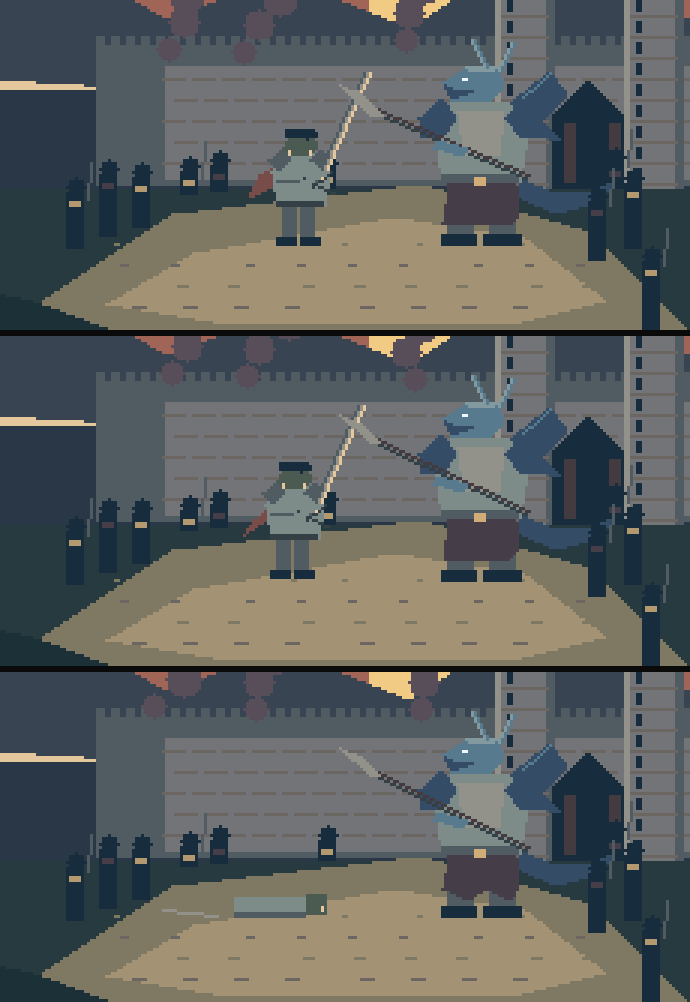
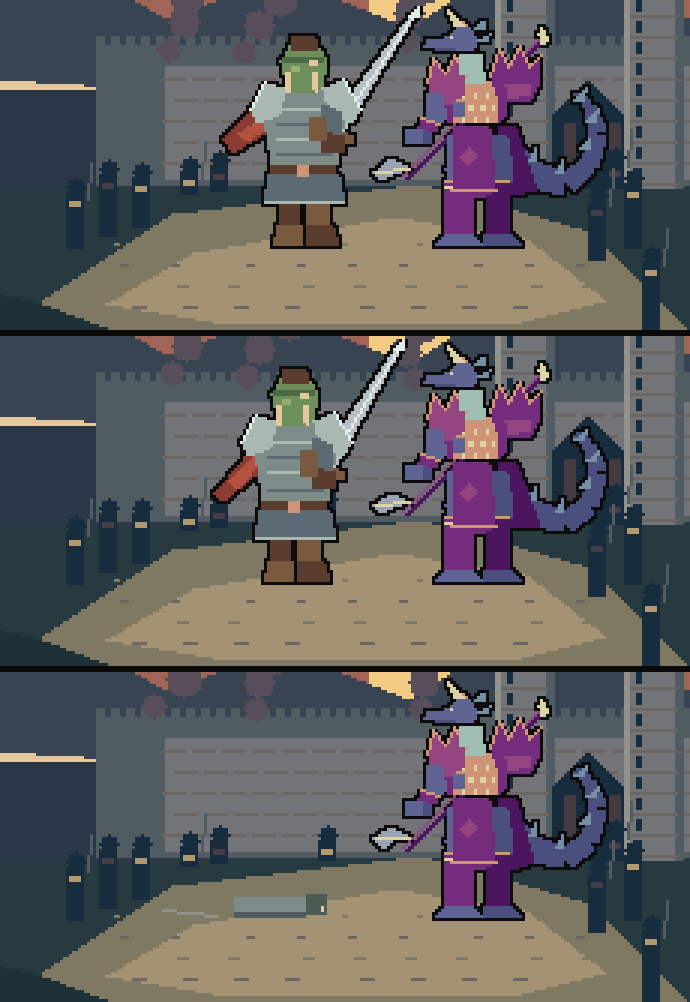
feat(dd5): sprite lab and redrawn Langdedrosa and Drek'Thar
Silhouette-first characters with selective outlines, purple/gold/blue palette for
Langdedrosa after the player's reference, and a lab tool to review colour, value and
silhouette views before wiring sprites into scenes.

Claude-Session: https://claude.ai/code/session_01THDc5EBxX1nxbvR3Z5k4fJ

diff --git a/index.html b/index.html
@@ -11279,7 +11279,7 @@
     function drawDuelActors(g, direction, progress, reversed = false) {
       const t = uiState.reducedMotion ? 0 : gameState.tick, finished = direction?.kind === 'duel' && progress > .55;
       const fallen = finished ? direction.fallen : null, dueling = direction?.kind === 'duel' && !finished;
-      const heroScale = reversed ? 1.12 : 1, foeScale = reversed ? .88 : 1.06;
+      const heroScale = reversed ? 1.12 : 1, foeScale = reversed ? .62 : .78;
       const heroX = reversed ? 207 : 182, foeX = reversed ? 258 : 250, baseY = reversed ? 174 : 172;
       const heroStrike = dueling ? strikeAt(progress, [.1, .28, .46]) : 0, foeStrike = dueling ? strikeAt(progress, [.19, .37]) : 0;
       if (['active','injured'].includes(characters.drekthar.state) || direction?.actor === 'drekthar') {
@@ -11486,67 +11486,130 @@
       pixelLine(g, ox + Math.round(x1 * scale) * (flip ? -1 : 1), oy + Math.round(y1 * scale), ox + Math.round(x2 * scale) * (flip ? -1 : 1), oy + Math.round(y2 * scale), color);
     }
 
-    // Langdedrosa Cyanwrath, demi-dragon bleu : colosse, cornes, étincelle de foudre à la corne. Regarde vers la gauche.
+    // Palette de Langdedrosa : violet, or et bleu d'écailles, avec un contour noir sélectif sur la silhouette extérieure.
+    const LD = { k: '#0c0c0c', p0: '#2e0c40', p1: '#4c155f', p2: '#762c7c', p3: '#92457f', p4: '#bf6784', b1: '#4b4f7e', b2: '#606493', b3: '#7590a4',
+      g1: '#cf9478', g2: '#dbd3a2', t: '#9ebeb2', steel: '#9aa3b4' };
+
+    // Ruban d'épaisseur variable le long d'une courbe (queue) : renvoie une liste de polygones.
+    function ribbonShapes(points, widths, color) {
+      const shapes = [];
+      for (let i = 0; i < points.length - 1; i++) {
+        const [ax, ay] = points[i], [bx, by] = points[i + 1], dx = bx - ax, dy = by - ay, len = Math.hypot(dx, dy) || 1, nx = -dy / len, ny = dx / len;
+        shapes.push({ pts: [[ax + nx * widths[i], ay + ny * widths[i]], [bx + nx * widths[i + 1], by + ny * widths[i + 1]], [bx - nx * widths[i + 1], by - ny * widths[i + 1]], [ax - nx * widths[i], ay - ny * widths[i]]], color });
+      }
+      return shapes;
+    }
+
+    // Dessine une liste de formes : d'abord le contour (silhouette extérieure), puis les aplats par-dessus.
+    // « lift » allonge les jambes : tout point au-dessus des pieds monte de lift pixels, les jambières s'étirent.
+    function drawShapeSet(g, ox, oy, scale, rawShapes, outline = LD.k, lift = 0) {
+      const raise = py => py < -6 ? py - lift : py;
+      const shapes = !lift ? rawShapes : rawShapes.map(shape => shape.pts ? { ...shape, pts: shape.pts.map(([px, py]) => [px, raise(py)]) }
+        : { ...shape, line: [shape.line[0], raise(shape.line[1]), shape.line[2], raise(shape.line[3])] });
+      const offsets = [[-1, 0], [1, 0], [0, -1], [0, 1], [-1, -1], [1, 1], [-1, 1], [1, -1]];
+      shapes.forEach(shape => { if (shape.pts && !shape.noOutline) offsets.forEach(([dx, dy]) => polyAt(g, ox + dx, oy + dy, scale, false, shape.pts, outline)); });
+      shapes.forEach(shape => {
+        if (shape.pts) polyAt(g, ox, oy, scale, false, shape.pts, shape.color);
+        else if (shape.line) lineAt(g, ox, oy, scale, false, ...shape.line, shape.color);
+      });
+    }
+
+    // Langdedrosa Cyanwrath, demi-dragon bleu. Regarde vers la gauche. Origine : centre des pieds.
     function drawLangdedrosa(g, x, y, t, strike = 0, scale = 1) {
-      const breath = [0, 0, -1, -1][Math.floor(t / 22) % 4], glaive = [0, -2, -3, -2, 0, 1][Math.floor(t / 38) % 6], cape = Math.floor(t / 15) % 3;
-      const lunge = -Math.round(strike * 12 * scale), by = y + Math.round(breath * scale);
-      const p = (pts, color, ox = x + lunge, oy = by) => polyAt(g, ox, oy, scale, false, pts, color);
-      const l = (x1, y1, x2, y2, color) => lineAt(g, x + lunge, by, scale, false, x1, y1, x2, y2, color);
-      // queue et ailes repliées, derrière le corps
-      p([[10, -16], [24, -10], [38, -14], [42, -22], [36, -18], [24, -17], [12, -22]], ART.blueDark);
-      p([[8, -44], [22, -56], [27, -48], [20, -40], [26, -33], [12, -36]], ART.blueDark); l(10, -44, 22, -55, ART.blue);
-      // jambes et bottes
-      p([[-10, 0], [-10, -20], [-2, -20], [-2, 0]], ART.stoneDark); p([[-12, 0], [-12, -4], [-1, -4], [-1, 0]], ART.shadow);
-      p([[3, 0], [3, -20], [11, -20], [11, 0]], ART.stoneDark); p([[1, 0], [1, -4], [13, -4], [13, 0]], ART.shadow);
-      // tabard d'étoffe qui bat doucement
-      p([[-10, -20], [-12, -9 + cape], [-4, -6 - cape], [2, -9 + cape], [9, -6 - cape], [12, -10], [11, -20]], ART.roofDark);
-      // torse cuirassé, ceinture, épaulières
-      p([[-12, -20], [-15, -36], [-9, -45], [9, -45], [15, -36], [12, -20]], ART.armor);
-      p([[-12, -20], [12, -20], [12, -23], [-12, -23]], ART.stoneDark); paint(g, ART.accent, x + lunge - 2, by - Math.round(22 * scale), 4, 3);
-      p([[-8, -42], [8, -42], [6, -28], [-6, -28]], ART.stoneLight);
-      p([[-20, -41], [-12, -47], [-8, -41], [-12, -34], [-19, -35]], ART.blueDark); p([[8, -41], [12, -47], [20, -41], [19, -35], [12, -34]], ART.blueDark);
-      // tête de dragon, profil gauche, cornes
-      p([[-12, -52], [-5, -57], [6, -57], [8, -50], [2, -45], [-9, -46]], ART.blue);
-      p([[-12, -52], [-8, -49], [-2, -49], [-9, -46]], ART.blueDark); p([[-5, -57], [6, -57], [4, -55], [-4, -55]], ART.blueLight);
-      l(1, -57, -3, -65, ART.blueLight); l(2, -57, -2, -65, ART.blue); l(6, -56, 9, -64, ART.blueLight); l(7, -56, 10, -64, ART.blue);
-      paint(g, VOLT.core, x + lunge - Math.round(6 * scale), by - Math.round(53 * scale), 2, 1);
-      // glaive tenu à deux mains, pointe qui oscille
-      const tipY = -58 + glaive - Math.round(strike * -6);
-      l(14, -22, -34, tipY + 16, ART.bark); l(15, -23, -33, tipY + 15, ART.timber);
-      p([[-34, tipY + 17], [-46, tipY + 6], [-37, tipY + 10], [-30, tipY + 17]], ART.stoneLight);
-      p([[-14, -34], [-4, -31], [-6, -28], [-15, -31]], ART.blue); // avant-bras
-      // rare étincelle de foudre à la corne
+      const breath = [0, 0, -1, -1][Math.floor(t / 22) % 4], bladeSway = [0, -1, -2, -1, 0, 1][Math.floor(t / 38) % 6], flap = Math.floor(t / 15) % 3, wag = [0, 1, 2, 1, 0, -1][Math.floor(t / 26) % 6];
+      const lunge = -Math.round(strike * 14 * scale), thrust = Math.round(strike * 9);
+      const up = breath, S = [];
+      // queue épineuse qui ondule, avec pointes sur l'extérieur
+      const tail = [[10, -28], [22, -18 + wag], [36, -14 + wag], [46, -22 + wag * 1.5], [50, -36 + wag * 2], [46, -48 + wag * 2], [40, -53 + wag * 2]];
+      S.push(...ribbonShapes(tail, [6, 6, 5, 4.5, 3.5, 2.5, 1], LD.b1));
+      [[22, -25 + wag], [34, -20 + wag], [44, -30 + wag], [47, -42 + wag * 2], [42, -51 + wag * 2]].forEach(([px, py], i) => S.push({ pts: [[px - 2, py + 1], [px + (i > 1 ? 4 : 1), py - 5], [px + 2, py + 2]], color: LD.b3 }));
+      // lance : hampe violette en diagonale, pointe haute dorée, lame en croissant côté adversaire
+      const bx = -36 - thrust, by = -17;
+      S.push({ line: [26, -76, bx + 4, by], color: LD.p1 }, { line: [27, -76, bx + 5, by], color: LD.p1 }, { line: [25, -77, bx + 3, by - 1], color: LD.p3 });
+      S.push({ pts: [[26, -82], [30, -76], [26, -73], [24, -78]], color: LD.g2 });
+      S.push({ pts: [[bx + 6, by - 3 + bladeSway], [bx - 3, by - 8 + bladeSway], [bx - 10, by - 2 + bladeSway], [bx - 6, by + 2 + bladeSway], [bx - 1, by - 1 + bladeSway]], color: LD.steel }, { line: [bx + 5, by - 3 + bladeSway, bx - 9, by - 2 + bladeSway], color: LD.g2 });
+      // pans de cape violette derrière
+      S.push({ pts: [[6, -40 + up], [16, -38 + up], [23 + flap, -11], [13, -8 - flap]], color: LD.p1 });
+      // jambes écaillées, jambières violettes cerclées d'or, pieds griffus
+      S.push({ pts: [[2, -34], [12, -34], [14, -18], [10, -8], [3, -8]], color: LD.b1 }, { pts: [[2, -15], [12, -15], [13, -5], [1, -5]], color: LD.p1 }, { line: [2, -15, 12, -15], color: LD.g1 }, { pts: [[0, 0], [1, -5], [14, -5], [18, 0]], color: LD.b1 });
+      S.push({ pts: [[-14, -34], [-3, -34], [-1, -18], [-5, -8], [-13, -8], [-16, -20]], color: LD.b2 }, { pts: [[-15, -15], [-4, -15], [-3, -5], [-16, -5]], color: LD.p2 }, { line: [-15, -15, -4, -15], color: LD.g1 }, { line: [-15, -13, -4, -13], color: LD.g2 });
+      S.push({ pts: [[-20, 0], [-16, -5], [-2, -5], [1, 0]], color: LD.b2 });
+      // tablier de tissu violet et or
+      S.push({ pts: [[-12, -38], [4, -38], [6, -12 + flap % 2], [0, -7 - flap % 2], [-8, -8], [-13, -12]], color: LD.p2 }, { pts: [[-5, -31], [-1, -26], [-5, -21], [-9, -26]], color: LD.p3 }, { line: [-13, -12, 6, -12], color: LD.g1 });
+      // plastron d'écailles dorées entre deux flancs violets, col clair
+      S.push({ pts: [[-17, -56 + up], [-12, -58 + up], [-13, -40], [-17, -42]], color: LD.p2 }, { pts: [[6, -58 + up], [11, -56 + up], [10, -42], [8, -40]], color: LD.p2 });
+      S.push({ pts: [[-12, -58 + up], [6, -58 + up], [8, -40], [-13, -40]], color: LD.g1 });
+      [[-8, -52], [-3, -52], [2, -52], [-10, -47], [-5, -47], [0, -47], [5, -47], [-8, -42], [-3, -42], [2, -42]].forEach(([px, py]) => S.push({ pts: [[px, py + up * (py < -44)], [px + 2, py + up * (py < -44)], [px + 2, py + 2 + up * (py < -44)], [px, py + 2 + up * (py < -44)]], color: LD.g2, noOutline: true }));
+      S.push({ pts: [[-6, -61 + up], [2, -61 + up], [2, -56 + up], [-6, -56 + up]], color: LD.t });
+      // épaulière arrière à pointes (violet bordé d'or), épaulière avant plus petite
+      S.push({ pts: [[4, -60 + up], [8, -71 + up], [12, -64 + up], [17, -73 + up], [21, -64 + up], [26, -69 + up], [26, -58 + up], [22, -50 + up], [12, -48 + up], [6, -52 + up]], color: LD.p2 });
+      S.push({ line: [4, -60 + up, 8, -71 + up], color: LD.g1 }, { line: [8, -71 + up, 12, -64 + up], color: LD.g1 }, { line: [12, -64 + up, 17, -73 + up], color: LD.g1 }, { line: [17, -73 + up, 21, -64 + up], color: LD.g1 }, { line: [21, -64 + up, 26, -69 + up], color: LD.g1 });
+      S.push({ pts: [[10, -56 + up], [20, -58 + up], [22, -52 + up], [12, -50 + up]], color: LD.p3, noOutline: true });
+      S.push({ pts: [[-23, -58 + up], [-20, -68 + up], [-15, -62 + up], [-11, -69 + up], [-6, -60 + up], [-7, -52 + up], [-14, -47 + up], [-22, -50 + up]], color: LD.p3 });
+      S.push({ line: [-23, -58 + up, -20, -68 + up], color: LD.g1 }, { line: [-20, -68 + up, -15, -62 + up], color: LD.g1 }, { line: [-15, -62 + up, -11, -69 + up], color: LD.g1 }, { line: [-11, -69 + up, -6, -60 + up], color: LD.g1 });
+      // bras avant : écailles bleues, brassard violet et or, poing refermé sur la hampe
+      S.push({ pts: [[-23, -52 + up], [-17, -52 + up], [-14, -42], [-20, -37], [-25, -41]], color: LD.b2 }, { pts: [[-25, -41], [-20, -37], [-21, -32], [-28, -31], [-30, -36]], color: LD.b1 });
+      S.push({ pts: [[-26, -42], [-18, -39], [-19, -36], [-27, -38]], color: LD.p2 }, { line: [-26, -42, -18, -39], color: LD.g1 });
+      S.push({ pts: [[-32, -37], [-25, -37], [-25, -30], [-32, -30]], color: LD.b2 });
+      S.push({ pts: [[-12, -48 + up], [-6, -48 + up], [-6, -42 + up], [-12, -42 + up]], color: LD.b2 });
+      // cou et tête de dragon (plus petite, sur un cou visible) : crête, corne dorée, mâchoire dentée, œil clair
+      const H = pts => pts.map(([px, py]) => [Math.round((px + 8) * .74) - 8, Math.round((py + 70) * .74) - 75 + up]);
+      S.push({ pts: [[-9, -60 + up], [1, -60 + up], [1, -69 + up], [-9, -69 + up]], color: LD.t });
+      S.push({ pts: H([[-12, -78], [-19, -90], [-15, -88], [-7, -78]]), color: LD.g2 }, { pts: H([[-6, -78], [-9, -85], [-4, -79]]), color: LD.g1 });
+      S.push({ pts: H([[-19, -73], [-11, -78], [-2, -77], [2, -71], [0, -65], [-8, -63], [-16, -65]]), color: LD.b2 });
+      S.push({ pts: H([[-19, -73], [-28, -71], [-29, -67], [-21, -65], [-16, -65]]), color: LD.b2 });
+      S.push({ pts: H([[-28, -67], [-19, -63], [-8, -63], [-11, -66], [-21, -66]]), color: LD.b1 });
+      S.push({ pts: H([[0, -77], [4, -83], [5, -75]]), color: LD.b3 }, { pts: H([[2, -72], [9, -76], [7, -68]]), color: LD.b3 });
+      S.push({ pts: H([[-15, -73], [-12, -73], [-12, -70], [-15, -70]]), color: LD.g2, noOutline: true });
+      drawShapeSet(g, x + lunge, y, scale, S, LD.k, 13);
+      // rare étincelle de foudre à la pointe de la lame
       if (Math.floor(t / 130) % 3 === 1 && Math.floor(t / 4) % 8 < 3) {
-        const sx = x + lunge - Math.round(3 * scale), sy = by - Math.round(66 * scale);
+        const sx = x + lunge + Math.round((bx - 9) * scale), sy = y + Math.round((by + bladeSway - 3 - 13) * scale);
         paint(g, VOLT.core, sx, sy, 1, 2); paint(g, VOLT.mid, sx + 1, sy + 2, 2, 1); paint(g, VOLT.core, sx - 1, sy + 3, 1, 2);
       }
     }
 
-    // Drek’Thar, demi-orc en cotte de mailles, épée à deux mains, défenses claires. Regarde vers la droite.
+    // Palette de Drek’Thar : demi-orc vert-gris, mailles d'acier, cuir brun, écharpe rouge, éclat d'or.
+    const DK = { skin: '#6f8f5a', skinLight: '#93b073', skinDark: '#4a6a45', mail: '#5c6b73', mailMid: '#7d8c89', mailLight: '#aab8b2', leather: '#5a3d2e', leatherLight: '#7a5a3e',
+      scarf: '#8c3b33', scarfLight: '#b5523f', tusk: '#e5c79d', steel: '#b6c0c4', steelLight: '#e3ebe8', gold: '#cf9478' };
+
+    // Drek’Thar, demi-orc guerrier, épée à deux mains levée devant lui. Regarde vers la droite. Origine : centre des pieds.
     function drawDrekthar(g, x, y, t, strike = 0, scale = 1) {
-      const breath = [0, 0, -1, -1][Math.floor(t / 20) % 4], blade = [0, -2, -3, -1, 1, 0][Math.floor(t / 34) % 6], cape = Math.floor(t / 17) % 3;
-      const lunge = Math.round(strike * 11 * scale), by = y + Math.round(breath * scale);
-      const p = (pts, color) => polyAt(g, x + lunge, by, scale, false, pts, color);
-      const l = (x1, y1, x2, y2, color) => lineAt(g, x + lunge, by, scale, false, x1, y1, x2, y2, color);
-      // écharpe d'étoffe derrière l'épaule
-      p([[-4, -29], [-14, -24 + cape * 2], [-18, -16 + cape], [-9, -20], [-3, -23]], ART.roof);
-      // jambes, bottes
-      p([[-6, 0], [-6, -13], [-1, -13], [-1, 0]], ART.stoneDark); p([[0, 0], [0, -13], [5, -13], [5, 0]], ART.stoneDark);
-      p([[-8, 0], [-8, -3], [-1, -3], [-1, 0]], ART.shadow); p([[0, 0], [0, -3], [7, -3], [7, 0]], ART.shadow);
-      // cotte de mailles, ceinture, épaulières
-      p([[-8, -13], [-10, -25], [-6, -31], [6, -31], [10, -25], [8, -13]], ART.armor);
-      p([[-8, -13], [8, -13], [8, -15], [-8, -15]], ART.bark); p([[-8, -22], [8, -22], [8, -21], [-8, -21]], ART.stoneDark);
-      p([[-11, -29], [-6, -33], [-3, -29], [-8, -25]], ART.stoneDark); p([[3, -29], [6, -33], [11, -29], [8, -25]], ART.stoneDark);
-      // tête de demi-orc et défenses
-      p([[-4, -38], [4, -38], [6, -33], [3, -30], [-3, -30], [-6, -33]], ART.grassLight);
-      p([[-5, -39], [5, -39], [6, -36], [-6, -36]], ART.shadow);
-      paint(g, ART.moon, x + lunge + Math.round(3 * scale), by - Math.round(32 * scale), 1, 2); paint(g, ART.moon, x + lunge - Math.round(4 * scale), by - Math.round(32 * scale), 1, 2);
-      paint(g, ART.shadow, x + lunge + Math.round(2 * scale), by - Math.round(36 * scale), 1, 1);
-      // épée à deux mains, pointe qui oscille
-      const tipY = -55 + blade - Math.round(strike * 8);
-      l(6, -22, 22, tipY + 3, ART.stoneLight); l(7, -22, 23, tipY + 3, ART.moon); l(5, -22, 21, tipY + 3, ART.stoneDark);
-      l(4, -20, 10, -25, ART.bark); l(1, -23, 11, -18, ART.bark);
-      p([[0, -22], [8, -26], [9, -24], [1, -20]], ART.armor);
+      const up = [0, 0, -1, -1][Math.floor(t / 20) % 4], sway = [0, -1, -2, -1, 1, 0][Math.floor(t / 34) % 6], flap = Math.floor(t / 17) % 3;
+      const lunge = Math.round(strike * 12 * scale), tilt = Math.round(strike * 10), S = [];
+      // écharpe rouge qui flotte derrière l'épaule
+      S.push({ pts: [[-5, -50 + up], [-17, -46 + flap * 2], [-27, -36 + flap * 3], [-24, -31 + flap * 2], [-14, -37 + flap], [-4, -42 + up]], color: DK.scarf });
+      S.push({ pts: [[-12, -45 + up + flap], [-22, -38 + flap * 2], [-19, -35 + flap * 2], [-10, -41 + up]], color: DK.scarfLight, noOutline: true });
+      // épée à deux mains : lame longue vers le haut, garde, pommeau (derrière le buste)
+      const tx = 30 + tilt, ty = -80 + sway;
+      S.push({ pts: [[7, -40], [13, -38], [tx + 2, ty], [tx - 2, ty + 3]], color: DK.steel }, { line: [10, -38, tx, ty + 2], color: DK.steelLight }, { pts: [[3, -43], [17, -37], [16, -34], [2, -40]], color: DK.leatherLight });
+      S.push({ pts: [[tx - 2, ty + 3], [tx + 2, ty - 1], [tx + 1, ty + 4]], color: DK.steelLight, noOutline: true });
+      // jambes et bottes
+      S.push({ pts: [[-8, -22], [-1, -22], [-1, -5], [-9, -5]], color: DK.leather }, { pts: [[1, -22], [8, -22], [9, -5], [1, -5]], color: DK.leatherLight });
+      S.push({ pts: [[-11, 0], [-9, -7], [0, -7], [0, 0]], color: DK.leatherLight }, { pts: [[1, 0], [1, -7], [10, -7], [12, 0]], color: DK.leather });
+      // jupe de mailles, ceinture à boucle dorée
+      S.push({ pts: [[-12, -24], [12, -24], [14, -14], [-14, -14]], color: DK.mail }, { line: [-13, -15, 13, -15], color: DK.mailLight });
+      S.push({ pts: [[-11, -27], [11, -27], [11, -24], [-11, -24]], color: DK.leather }, { pts: [[-2, -28], [2, -28], [2, -23], [-2, -23]], color: DK.gold, noOutline: true });
+      // buste de mailles, fines lignes de reflet
+      S.push({ pts: [[-11, -27], [-14, -45 + up], [-8, -53 + up], [8, -53 + up], [14, -45 + up], [11, -27]], color: DK.mailMid });
+      [-46, -41, -36, -31].forEach((py, i) => S.push({ line: [-9, py + (py < -34 ? up : 0), 9, py + (py < -34 ? up : 0)], color: i % 2 ? DK.mail : DK.mailLight, noOutline: true }));
+      // épaulières d'acier
+      S.push({ pts: [[-18, -46 + up], [-13, -55 + up], [-6, -53 + up], [-8, -44 + up], [-16, -41 + up]], color: DK.mailLight });
+      S.push({ pts: [[6, -53 + up], [13, -56 + up], [19, -46 + up], [16, -41 + up], [8, -44 + up]], color: DK.mailLight });
+      S.push({ line: [-18, -46 + up, -13, -55 + up], color: DK.steelLight }, { line: [13, -56 + up, 19, -46 + up], color: DK.steelLight });
+      // bras vers la poignée, gantelets
+      S.push({ pts: [[6, -48 + up], [13, -45 + up], [13, -35], [6, -33]], color: DK.mail }, { pts: [[6, -39], [14, -37], [14, -31], [6, -31]], color: DK.leather });
+      S.push({ pts: [[2, -43 + up], [8, -43 + up], [8, -35], [2, -35]], color: DK.leatherLight });
+      // tête de demi-orc : crâne, mâchoire lourde, défenses, chignon sombre, regard jaune
+      S.push({ pts: [[-5, -54 + up], [5, -54 + up], [6, -57 + up], [-6, -57 + up]], color: DK.skinDark });
+      S.push({ pts: [[-7, -57 + up], [7, -57 + up], [8, -62 + up], [5, -67 + up], [-5, -67 + up], [-8, -62 + up]], color: DK.skin });
+      S.push({ pts: [[-7, -58 + up], [7, -58 + up], [6, -53 + up], [3, -51 + up], [-3, -51 + up], [-6, -53 + up]], color: DK.skin });
+      S.push({ pts: [[-4, -70 + up], [4, -70 + up], [5, -65 + up], [-5, -65 + up]], color: DK.leather });
+      S.push({ pts: [[-7, -63 + up], [7, -63 + up], [7, -61 + up], [-7, -61 + up]], color: DK.skinDark, noOutline: true });
+      S.push({ pts: [[2, -62 + up], [5, -62 + up], [5, -60 + up], [2, -60 + up]], color: DK.tusk, noOutline: true });
+      S.push({ pts: [[3, -58 + up], [5, -58 + up], [5, -52 + up], [4, -51 + up], [3, -53 + up]], color: DK.tusk, noOutline: true }, { pts: [[-6, -58 + up], [-4, -58 + up], [-4, -53 + up], [-5, -51 + up], [-6, -52 + up]], color: DK.tusk, noOutline: true });
+      S.push({ pts: [[-4, -60 + up], [-1, -60 + up], [-1, -58 + up], [-4, -58 + up]], color: DK.skinLight, noOutline: true });
+      drawShapeSet(g, x + lunge, y, scale, S, LD.k, 0);
     }
 
     // Berserker du Culte : torse nu, casque à cornes, hache lourde. Souffle et arme décalés par la position.

diff --git a/progress.md b/progress.md
@@ -132,6 +132,11 @@ au runtime. La CI lance automatiquement les quatre suites Node.
   (respiration, arme qui se déplace, étoffe, rare étincelle sur la corne), spectateurs en anneau,
   fumées de la ville derrière l'enceinte, élans de coups seulement pendant le duel.
 - **Langdedrosa II** : rapports inversés (Drek'Thar plus grand, Langdedrosa plus petit) et berserkers redessinés.
+- **Atelier de sprites** (`tools/sprite-lab.cjs`) : dessine un personnage sur fond neutre en couleur, en niveaux
+  de gris (étude de valeurs) et en silhouette, agrandi 4×. Usage : `node tools/sprite-lab.cjs sortie.png langdedrosa drekthar`.
+- **Langdedrosa et Drek'Thar redessinés** d'après la référence fournie par le MJ (silhouette, violet/or/bleu pour
+  Langdedrosa; demi-orc en mailles pour Drek'Thar), avec contour noir sélectif. Pas de reprise pixel pour pixel.
+  Langdedrosa : ~78 px de haut dans la scène, Drek'Thar ~66 px; au second duel, les tailles s'inversent.
 - Mouvement réduit : image fixe complète, sans éclair. Aucun hasard : tout dépend du tick.
 - Aperçus : `docs/previews/pixel-*.png`.
 - Prochains décors (§9 du brief) : camp des pillards, salle des œufs, caravane, marais, Naerytar.
